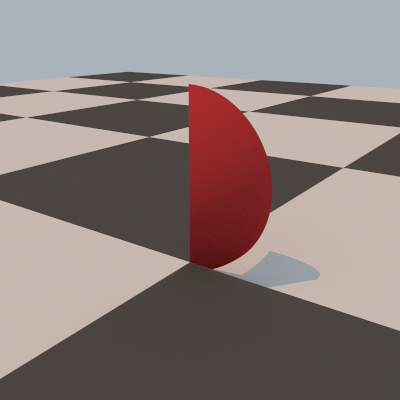
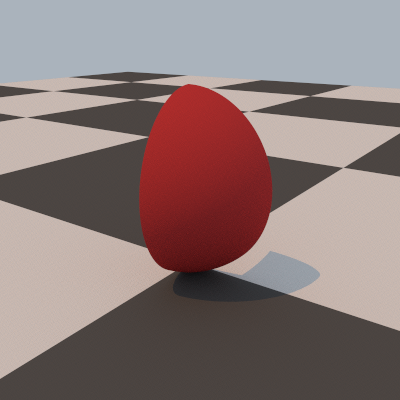
I think that I have fixed my partial spheres code. I am profiling it now.

Changed region(s): [[0.33, 0.21, 0.78, 0.75]]

diff --git a/src/shapes/sphere.cpp b/src/shapes/sphere.cpp
@@ -45,33 +45,33 @@ Bounds3f Sphere::ObjectBound() const {
 
     // CGRA408 code
     //---//
-    if (phiMax == 0.0f) {
-        return Bounds3f(Point3f(0.0f, 0.0f, 0.0f), Point3f(0.0f, 0.0f, 0.0f));
-    }
-    Float xMin = -radius;
-    Float yMin = -radius;
-    Float xMax = radius;
-    Float yMax = radius;
-    // Set theta to 0, so that we are dealing in the flat x, y plane (z = 0) for
-    // our calculations
-    Float theta = 0.0f;
-    if (phiMax < Pi/2.0f) {
-        xMin = 0.0f;
-        yMin = 0.0f;
-        yMax = radius * sin(theta) * sin(phiMax);
-    }
-    else if (phiMax < Pi) {
-        yMin = 0.0f;
-        xMin = radius * sin(theta) * cos(phiMax);
-    }
-    else if (phiMax < 3.0f*Pi/2.0f) {
-        yMin = radius * sin(theta) * sin(phiMax);
-    }
-    return Bounds3f(Point3f(xMin, yMin, zMin), Point3f(xMax, yMax, zMax));
+    //if (phiMax == 0.0f) {
+    //    return Bounds3f(Point3f(0.0f, 0.0f, 0.0f), Point3f(0.0f, 0.0f, 0.0f));
+    //}
+    //Float xMin = -radius;
+    //Float yMin = -radius;
+    //Float xMax = radius;
+    //Float yMax = radius;
+    //// Set theta to 0, so that we are dealing in the flat x, y plane (z = 0) for
+    //// our calculations
+    //Float theta = Pi / 2.0f;
+    //if (phiMax < Pi/2.0f) {
+    //    xMin = 0.0f;
+    //    yMin = 0.0f;
+    //    yMax = radius * sin(theta) * sin(phiMax);
+    //}
+    //else if (phiMax < Pi) {
+    //    yMin = 0.0f;
+    //    xMin = radius * sin(theta) * cos(phiMax);
+    //}
+    //else if (phiMax < 3.0f*Pi/2.0f) {
+    //    yMin = radius * sin(theta) * sin(phiMax);
+    //}
+    //return Bounds3f(Point3f(xMin, yMin, zMin), Point3f(xMax, yMax, zMax));
     //---//
 
-    //return Bounds3f(Point3f(-radius, -radius, zMin),
-    //                Point3f(radius, radius, zMax));
+    return Bounds3f(Point3f(-radius, -radius, zMin),
+                    Point3f(radius, radius, zMax));
 }
 
 bool Sphere::Intersect(const Ray &r, Float *tHit, SurfaceInteraction *isect,

diff --git a/src/core/progressreporter.cpp b/src/core/progressreporter.cpp
@@ -135,13 +135,27 @@ void ProgressReporter::PrintBar() {
         // Update elapsed time and estimated time to completion
         Float seconds = ElapsedMS() / 1000.f;
         Float estRemaining = seconds / percentDone - seconds;
+
+        // CGRA408 code
+        //---//
         if (percentDone == 1.f)
-            printf(" (%.1fs)       ", seconds);
+            printf(" (%.4fs)       ", seconds);
         else if (!std::isinf(estRemaining))
-            printf(" (%.1fs|%.1fs)  ", seconds,
+            printf(" (%.4fs|%.4fs)  ", seconds,
                    std::max((Float)0., estRemaining));
-        else
-            printf(" (%.1fs|?s)  ", seconds);
+        else {
+            printf(" (%.4fs|?s)  ", seconds);
+        }
+        //---//
+
+        //if (percentDone == 1.f)
+        //    printf(" (%.1fs)       ", seconds);
+        //else if (!std::isinf(estRemaining))
+        //    printf(" (%.1fs|%.1fs)  ", seconds,
+        //           std::max((Float)0., estRemaining));
+        //else {
+        //    printf(" (%.1fs|?s)  ", seconds);
+        //}
         fflush(stdout);
     }
 }
